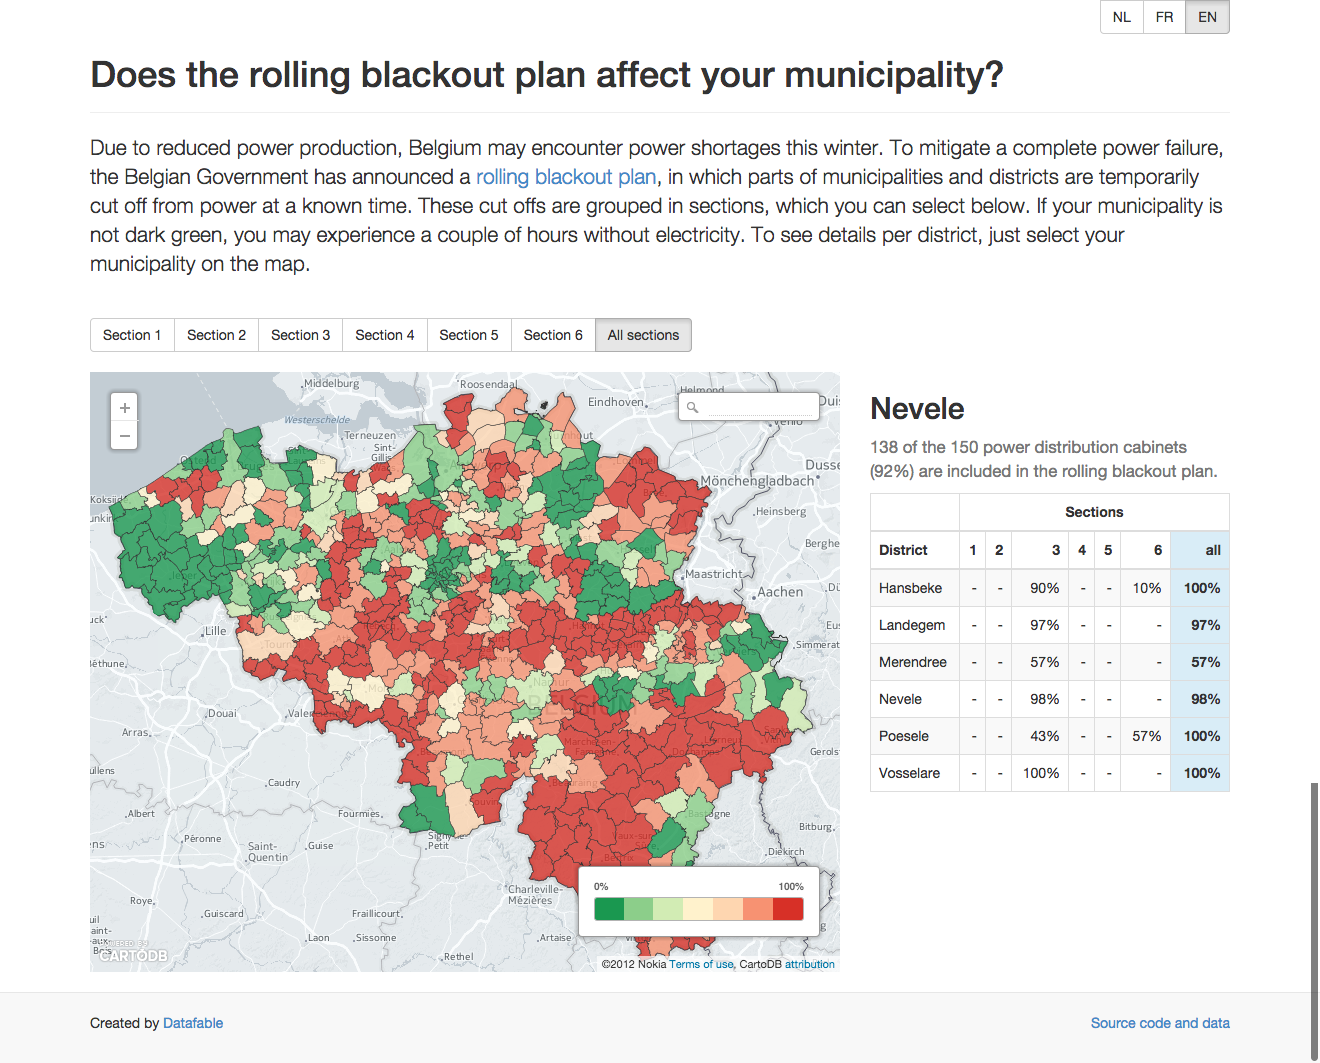
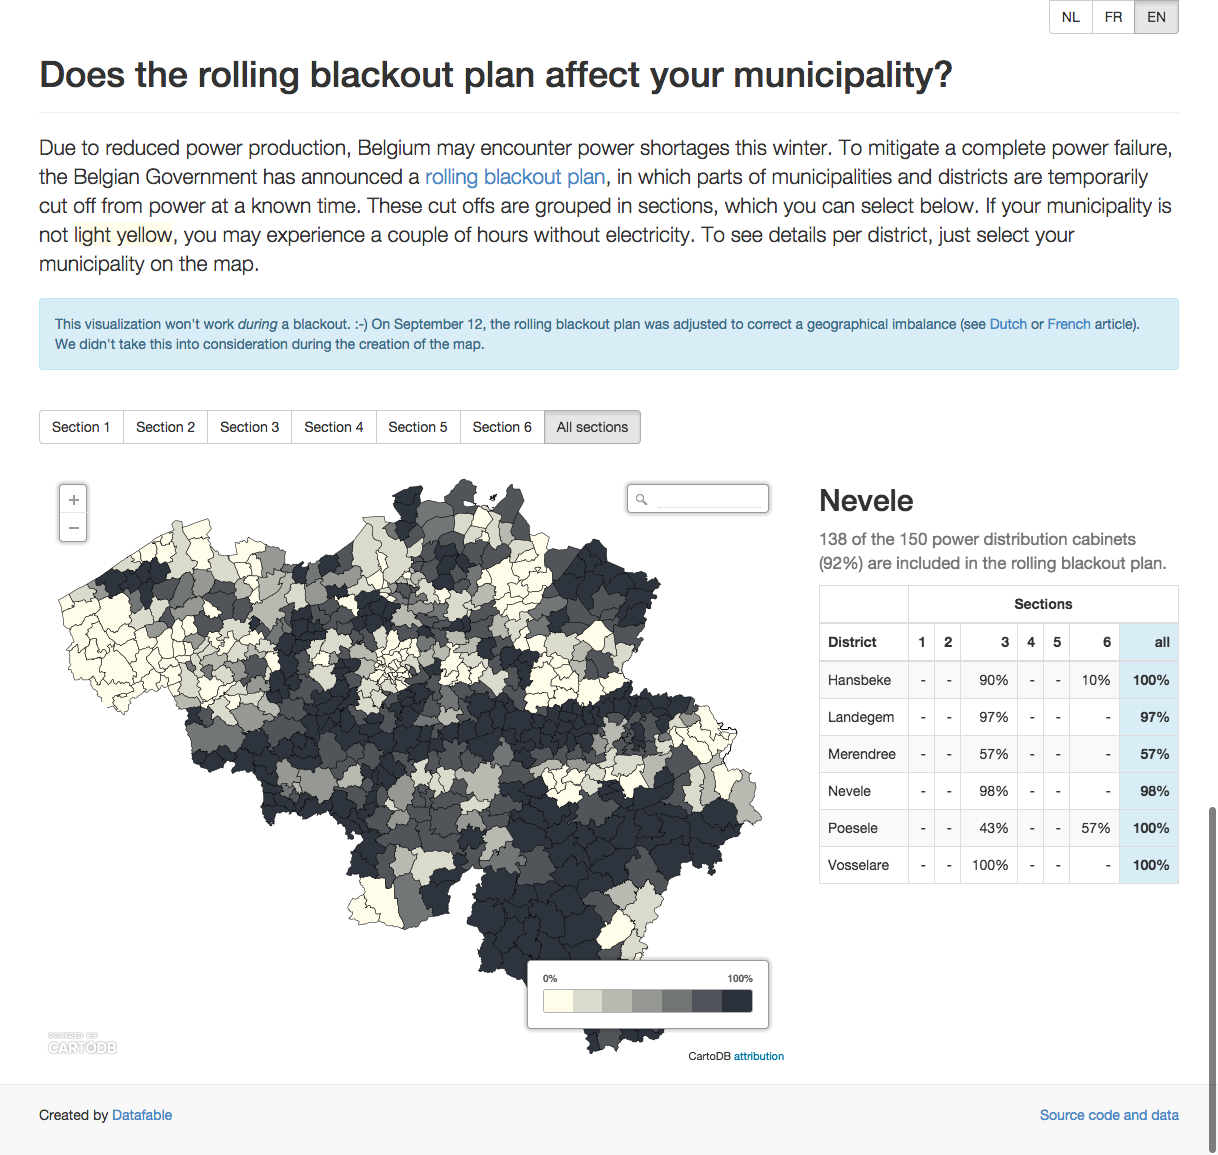
Update visualization
* More natural colors
* Updated message

diff --git a/viz/index.html b/viz/index.html
@@ -27,8 +27,8 @@
                 <div class="page-header">
                     <h1 data-i18n="site.title">Does the rolling blackout plan affect your municipality?</h1>
                 </div>
-                <p class="lead" data-i18n="[html]site.introduction">Due to reduced power production, Belgium may encounter power shortages this winter. To mitigate a complete power failure, the Belgian Government has announced a <a href="http://economie.fgov.be/nl/consument/Energie/Energiebevoorradingszekerheid/Crisisbeleid/elektriciteit/afschakeling/afschakelplan/">rolling blackout plan</a>, in which parts of municipalities and districts are temporarily cut off from power at a known time. These cut offs are grouped in sections, which you can select below. If your municipality is not dark green, you may experience a couple of hours without electricity. To see details per district, just select your municipality on the map.</p>
-                <p class="warning" data-i18n="[html]site.update">Update: The rolling blackout plan contains a geographical imbalance. To correct this imbalance, the plan was recently adjusted. We did not take this correction into account during the creation of the map. View the article in dutch or in french</p>
+                <p class="lead" data-i18n="[html]site.introduction">Due to reduced power production, Belgium may encounter power shortages this winter. To mitigate a complete power failure, the Belgian Government has announced a <a href="http://economie.fgov.be/nl/consument/Energie/Energiebevoorradingszekerheid/Crisisbeleid/elektriciteit/afschakeling/afschakelplan/">rolling blackout plan</a>, in which parts of municipalities and districts are temporarily cut off from power at a known time. These cut offs are grouped in sections, which you can select below. If your municipality is <span class="light-yellow">light yellow</span>, you may experience a couple of hours without electricity. To see details per district, just select your municipality on the map.</p>
+                <p class="alert alert-info" data-i18n="[html]site.alert">This visualization won't work <em>during</em> a blackout. :-) On September 12, the rolling blackout plan was adjusted to correct a geographical imbalance (see <a href="http://www.standaard.be/cnt/dmf20140912_01264343">Dutch</a> or <a href="http://www.lalibre.be/actu/belgique/black-out-le-plan-de-delestage-va-etre-modifie-5412ec0135708a6d4d558a4d">French</a> article). We didn't take this into consideration during the creation of the map.</p>
             </div>
         </div>
 

diff --git a/viz/js/app.js b/viz/js/app.js
@@ -54,7 +54,7 @@ function drawMap() {
         title: false,
         zoom: 8
     }
-    cartodb.createVis("map", "http://datafable.cartodb.com/api/v2/viz/6ea981ca-38fa-11e4-b1f2-0e230854a1cb/viz.json", options)
+    cartodb.createVis("map", "http://datafable.cartodb.com/api/v2/viz/605582b4-43d0-11e4-b721-0edbca4b5057/viz.json", options)
         .done(function(vis, layers) {
             window.layers = layers;
             var sublayer = layers[1].getSubLayer(0);
@@ -116,7 +116,7 @@ function showMunicipalityInfo(data) {
 
 function changeSectionOnMap() {
     var section = "section_" + window.selectedSection + "_pct";
-    var cartocss = "#rolling_blackout { polygon-fill: #1a9850; polygon-opacity: 0.8; line-color: #333333; line-width: 0.5; line-opacity: 1; } #rolling_blackout[" + section + " = 100] { polygon-fill: #d73027; } #rolling_blackout[" + section + " < 100] { polygon-fill: #f79272; } #rolling_blackout[" + section + " < 80] { polygon-fill: #fed6b0; } #rolling_blackout[" + section + " < 60] { polygon-fill: #fff2cc; } #rolling_blackout[" + section + " < 40] { polygon-fill: #d2ecb4; } #rolling_blackout[" + section + " < 20] { polygon-fill: #8cce8a; } #rolling_blackout[" + section + " = 0] { polygon-fill: #1a9850; }";
+    var cartocss = "#rolling_blackout::shape { polygon-fill: #fffdea; polygon-opacity: 1; line-color: #000000; line-width: 0.5; line-opacity: 1; [" + section + " = 100] { polygon-fill: #2c323c; } [" + section + " < 100] { polygon-fill: #4f5359; } [" + section + " < 80] { polygon-fill: #727576; } [" + section + " < 60] { polygon-fill: #959793; } [" + section + " < 40] { polygon-fill: #b8b9b0; } [" + section + " < 20] { polygon-fill: #dbdbcd; } [" + section + " = 0] { polygon-fill: #fffdea; } } #rolling_blackout[zoom>=10]::labels { text-name: [municipality]; text-face-name: 'DejaVu Sans Book'; text-size: 11; text-fill: #000; text-halo-fill: #FFF; text-halo-radius: 1.5; text-wrap-width: 1; text-wrap-character: '/'; text-placement: interior; text-placement-type: simple; text-allow-overlap: false; }"
     window.layers[1].setCartoCSS(cartocss);
     highlightSectionInTable();
 }

diff --git a/viz/css/main.css b/viz/css/main.css
@@ -6,6 +6,9 @@
 #intro .page-header {
     margin-top: 0px;
 }
+.light-yellow {
+    background-color: #fffdea;
+}
 
 #section-selection {
     margin-bottom: 20px;
